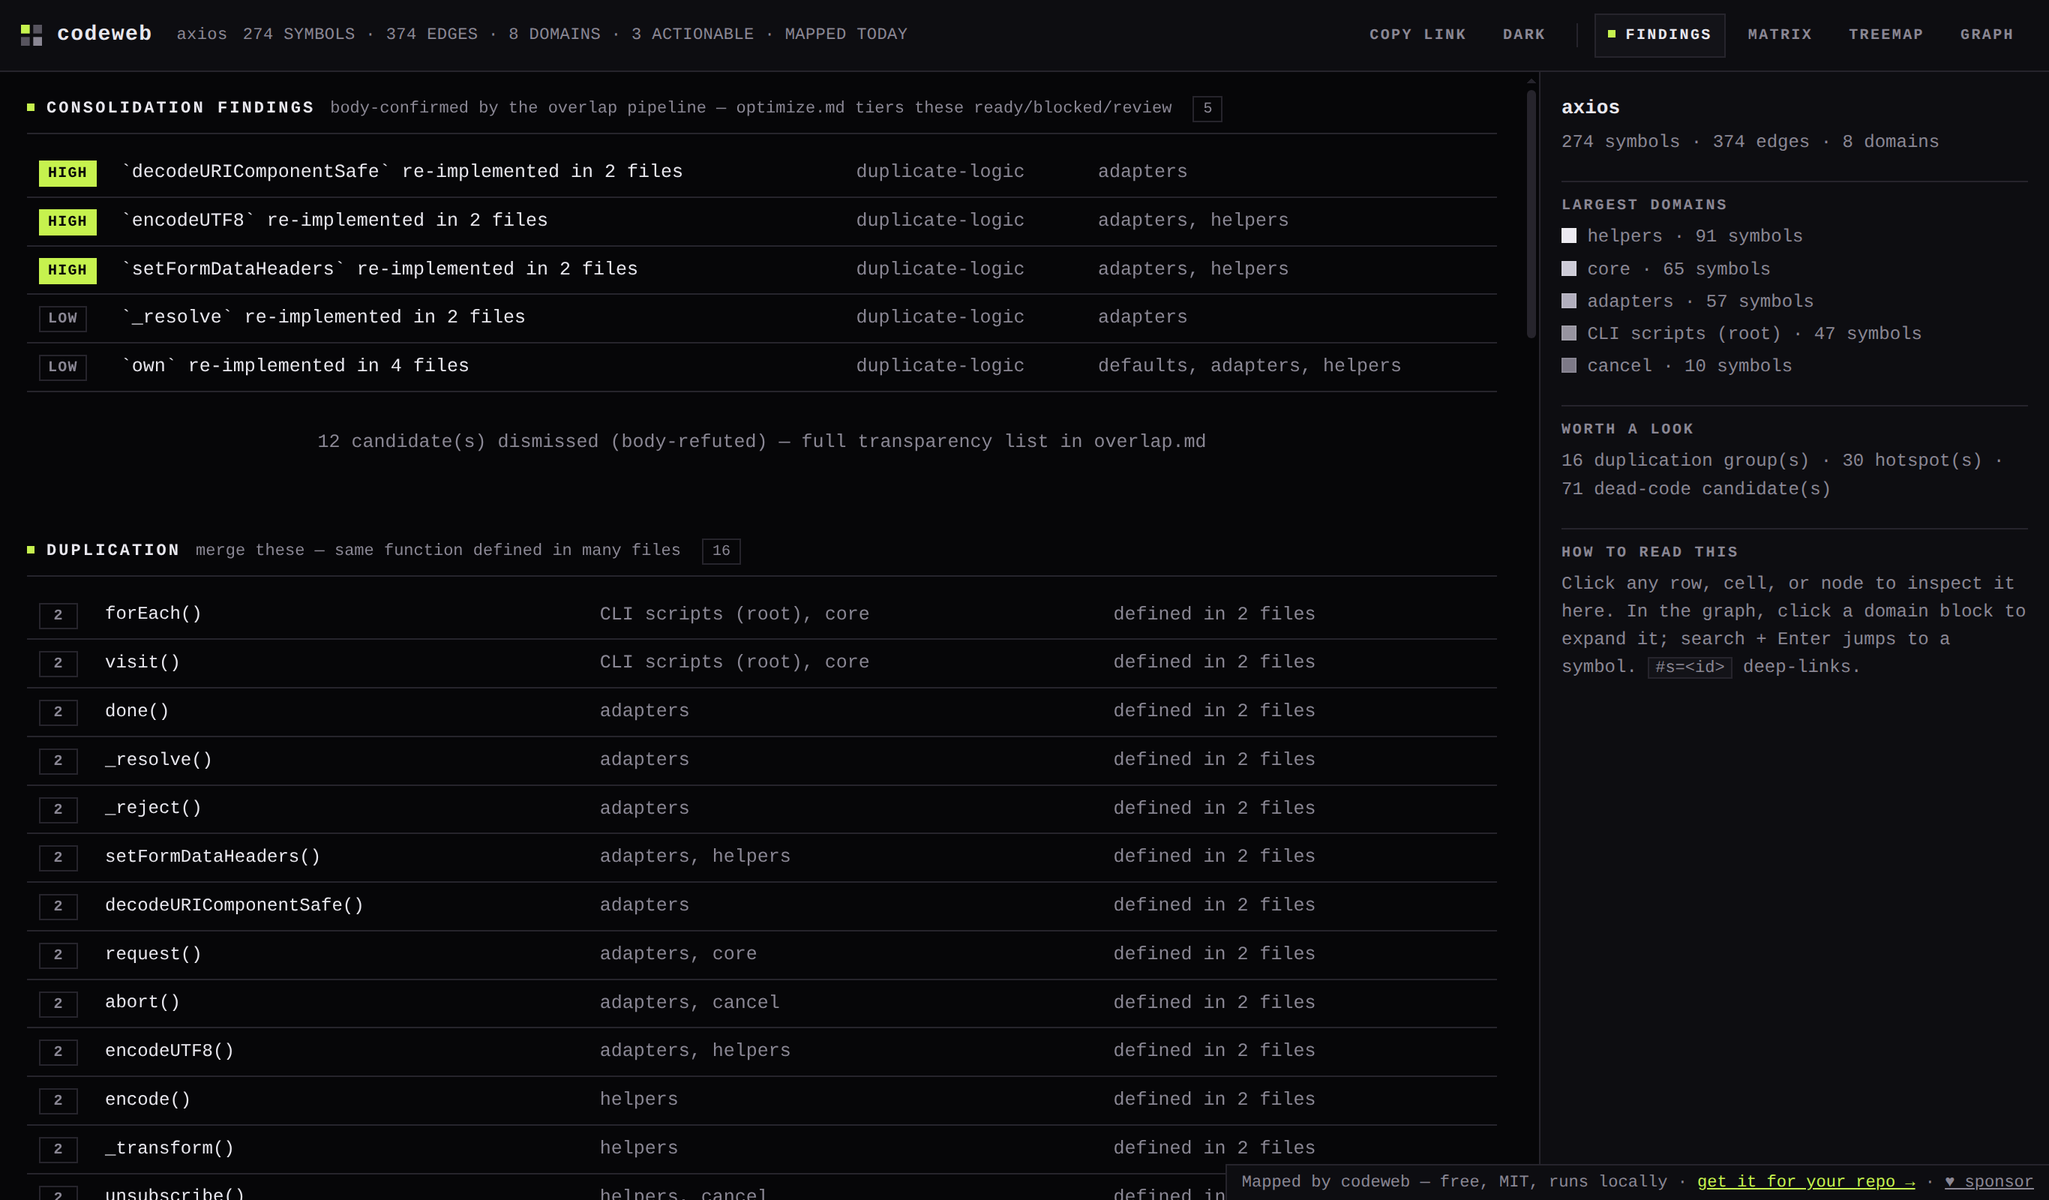
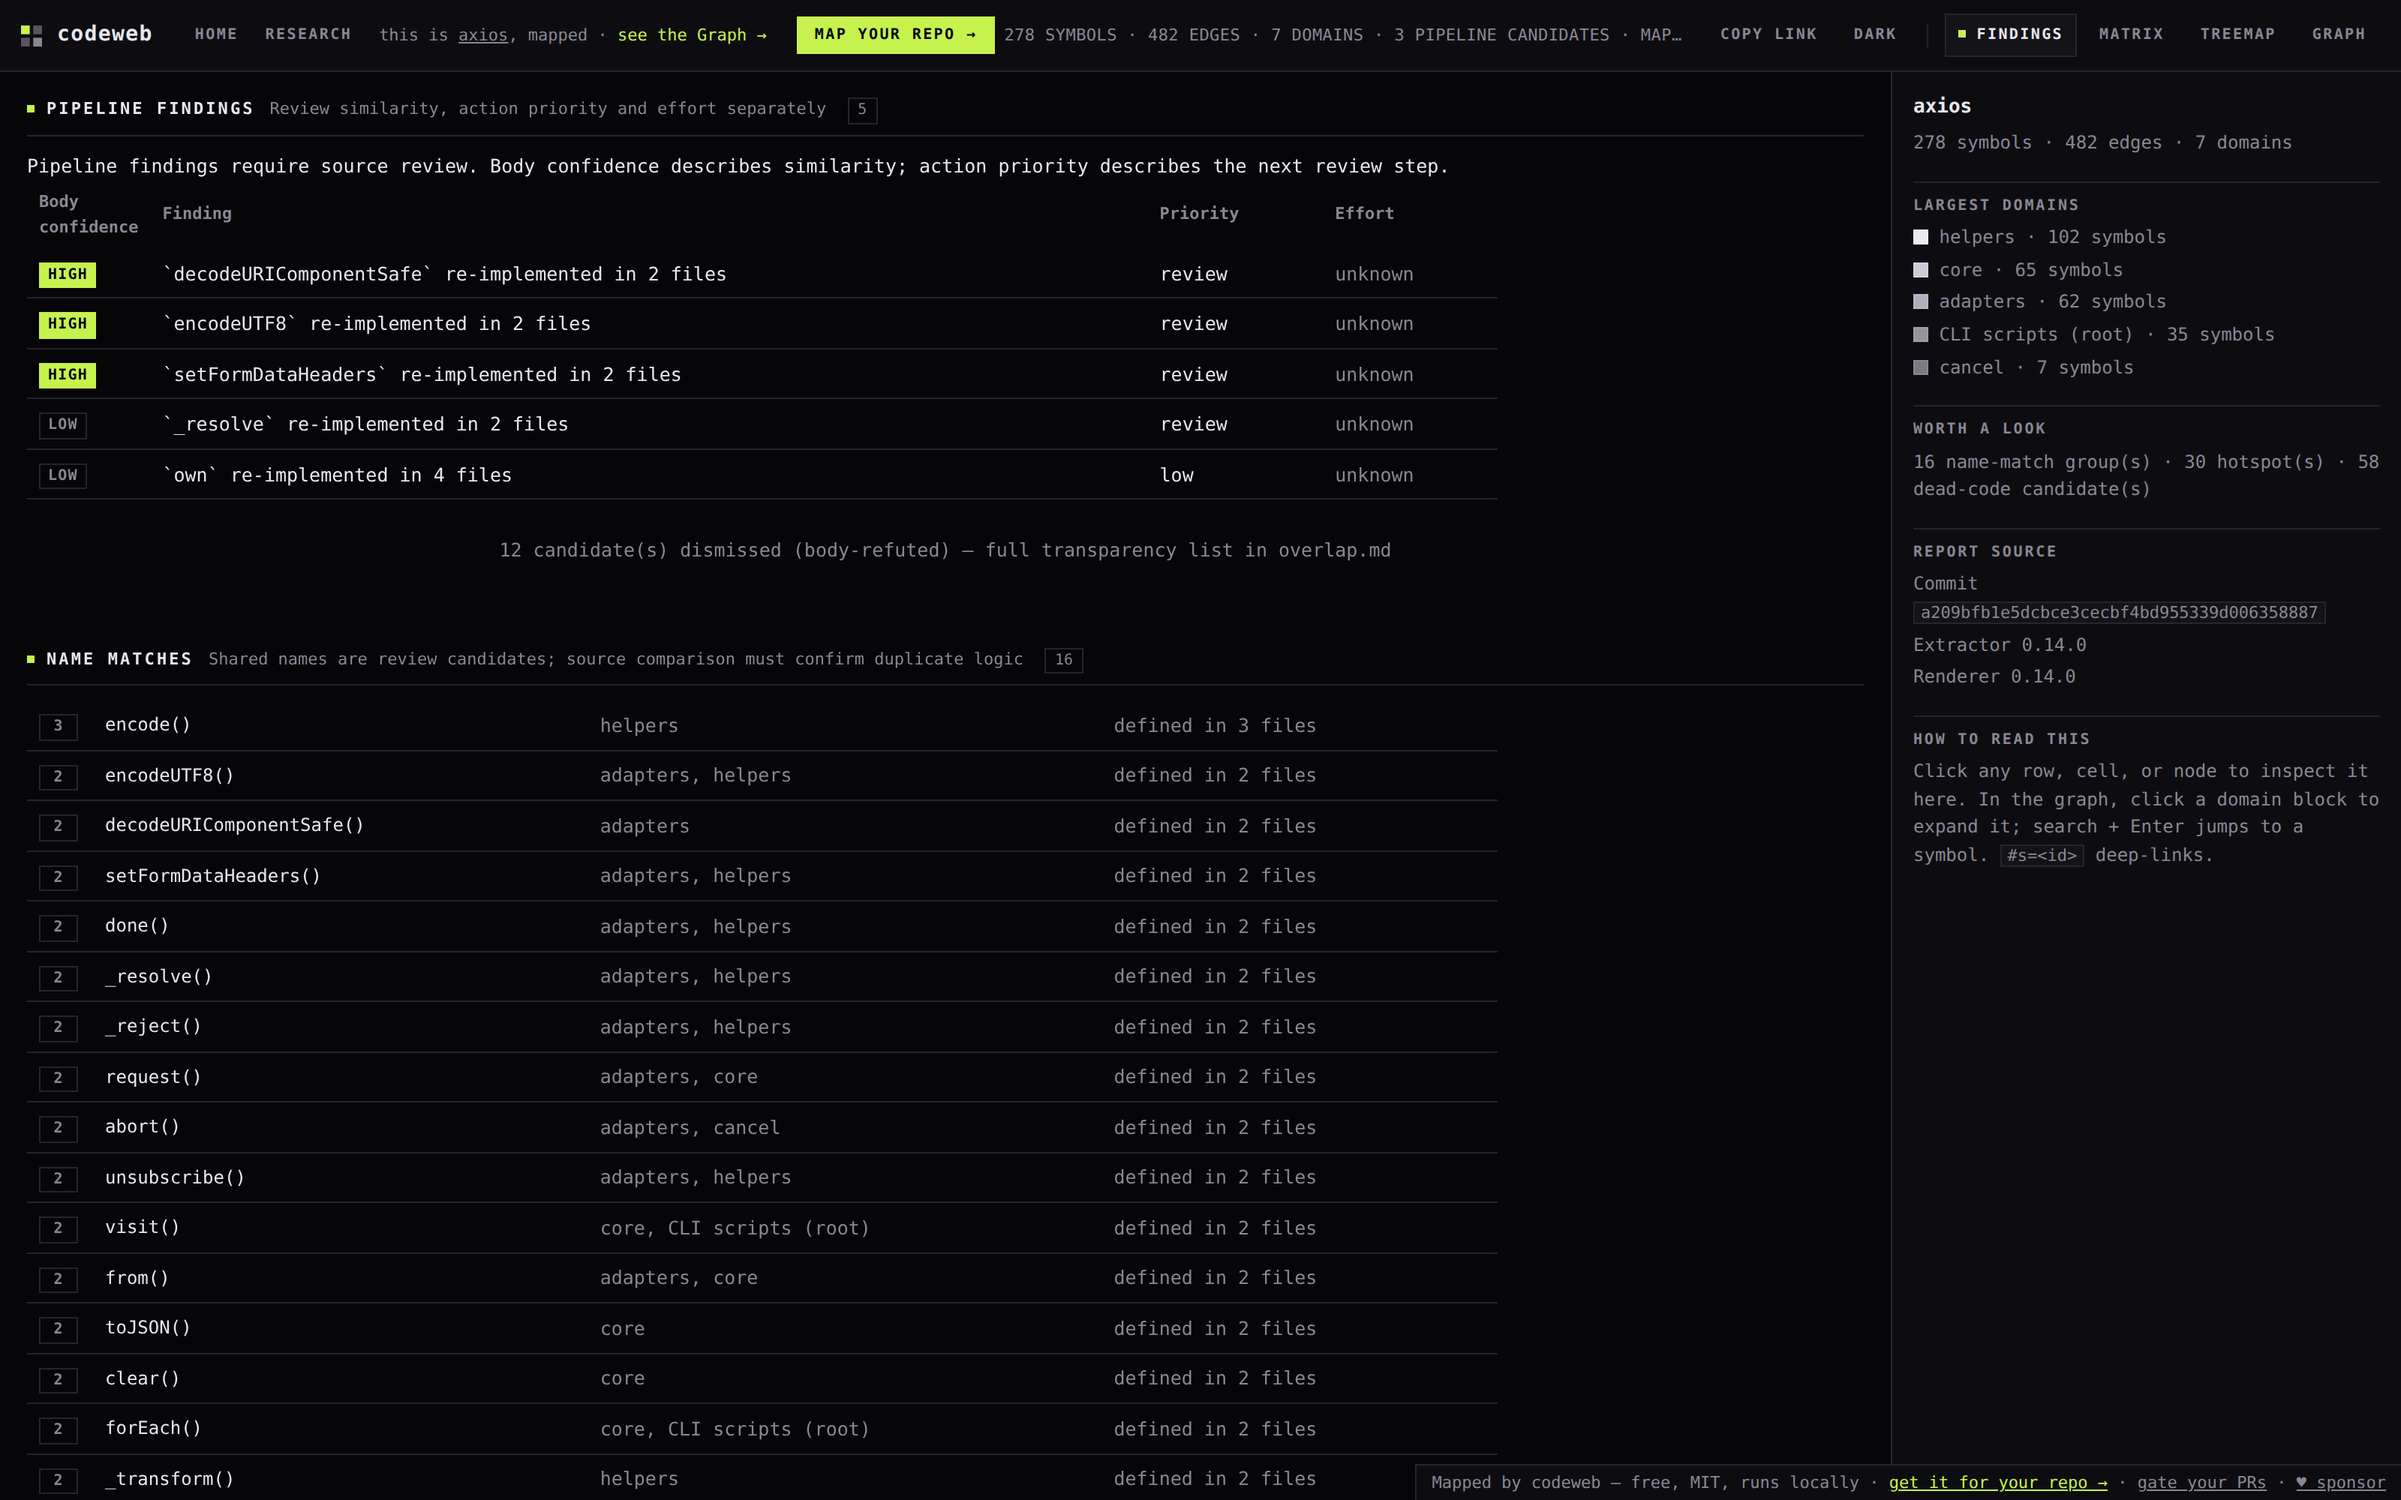
test: verify product flows and refresh inspected demo screenshots

diff --git a/docs/start.html b/docs/start.html
@@ -64,7 +64,7 @@
     <p>Select the client that your agents use. Add the displayed entry to its configuration; preserve your other server entries.</p>
     <label for="setup-client">MCP client</label>
     <select id="setup-client"><option value="claude">Claude Code</option><option value="cursor">Cursor</option><option value="windsurf">Windsurf</option><option value="gemini">Gemini CLI</option><option value="codex">Codex</option></select>
-    <div class="setup-recipe" data-setup-client="claude">
+    <div class="setup-recipe" data-setup-client="claude" data-config-path=".mcp.json">
       <h3>Claude Code</h3>
       <p>Add the json entry to <code>.mcp.json</code>. Merge it with existing settings.</p>
       <pre tabindex="0" aria-label="Claude Code recipe"><code>{
@@ -82,7 +82,7 @@
 }</code></pre>
       <button type="button" class="btn" data-copy-recipe hidden>Copy recipe</button>
       <p role="status" aria-live="polite"></p>
-    </div><div class="setup-recipe" data-setup-client="cursor">
+    </div><div class="setup-recipe" data-setup-client="cursor" data-config-path=".cursor/mcp.json">
       <h3>Cursor</h3>
       <p>Add the json entry to <code>.cursor/mcp.json</code>. Merge it with existing settings.</p>
       <pre tabindex="0" aria-label="Cursor recipe"><code>{
@@ -100,7 +100,7 @@
 }</code></pre>
       <button type="button" class="btn" data-copy-recipe hidden>Copy recipe</button>
       <p role="status" aria-live="polite"></p>
-    </div><div class="setup-recipe" data-setup-client="windsurf">
+    </div><div class="setup-recipe" data-setup-client="windsurf" data-config-path="~/.codeium/windsurf/mcp_config.json">
       <h3>Windsurf</h3>
       <p>Add the json entry to <code>~/.codeium/windsurf/mcp_config.json</code>. Merge it with existing settings.</p>
       <pre tabindex="0" aria-label="Windsurf recipe"><code>{
@@ -118,7 +118,7 @@
 }</code></pre>
       <button type="button" class="btn" data-copy-recipe hidden>Copy recipe</button>
       <p role="status" aria-live="polite"></p>
-    </div><div class="setup-recipe" data-setup-client="gemini">
+    </div><div class="setup-recipe" data-setup-client="gemini" data-config-path=".gemini/settings.json">
       <h3>Gemini CLI</h3>
       <p>Add the json entry to <code>.gemini/settings.json</code>. Merge it with existing settings.</p>
       <pre tabindex="0" aria-label="Gemini CLI recipe"><code>{
@@ -136,7 +136,7 @@
 }</code></pre>
       <button type="button" class="btn" data-copy-recipe hidden>Copy recipe</button>
       <p role="status" aria-live="polite"></p>
-    </div><div class="setup-recipe" data-setup-client="codex">
+    </div><div class="setup-recipe" data-setup-client="codex" data-config-path="~/.codex/config.toml">
       <h3>Codex</h3>
       <p>Add the toml entry to <code>~/.codex/config.toml</code>. Merge it with existing settings.</p>
       <pre tabindex="0" aria-label="Codex recipe"><code>[mcp_servers.codeweb]
@@ -146,7 +146,7 @@ args = ["-y","-p","@ghostlygawd/codeweb","codeweb-mcp"]
       <button type="button" class="btn" data-copy-recipe hidden>Copy recipe</button>
       <p role="status" aria-live="polite"></p>
     </div>
-    <p>You can print the same recipe locally with <code>npx -y @ghostlygawd/codeweb setup --client cursor</code>. The setup command does not write or replace configuration.</p>
+    <p>You can print the same recipe locally with <code id="setup-command">npx -y @ghostlygawd/codeweb setup --client claude</code>. The setup command does not write or replace configuration.</p>
     <details class="card"><summary>Claude Code plugin alternative</summary>
       <p>The plugin adds the <code>/codeweb</code> command, automatic pre-edit impact cards, and all 28 tools.</p>
 <pre><code>/plugin marketplace add GhostlyGawd/codeweb
@@ -157,7 +157,7 @@ args = ["-y","-p","@ghostlygawd/codeweb","codeweb-mcp"]
 <pre><code>npx -y @ghostlygawd/codeweb doctor</code></pre>
     <p><strong>Local success:</strong> Node is compatible, the local MCP server initializes, and the graph is present and fresh. The check does not confirm an editor connection.</p>
     <p>For an explicit configuration check, supply the selected client and file. This inspects the entry without running commands from that file.</p>
-<pre><code>npx -y @ghostlygawd/codeweb doctor --client cursor --config .cursor/mcp.json</code></pre>
+<pre><code id="doctor-command">npx -y @ghostlygawd/codeweb doctor --client claude --config .mcp.json</code></pre>
     <p>If the graph is missing or stale, repeat step 1. If a required check fails, follow the named remedy and run doctor again.</p>
     <h2>4. Ask your agents one caller question</h2>
     <p>Restart your client or reload its MCP servers. In that client, ask:</p>

diff --git a/site/content/start.html b/site/content/start.html
@@ -13,7 +13,7 @@
     <h2 id="other-clients">2. Choose your client</h2>
     <p>Select the client that your agents use. Add the displayed entry to its configuration; preserve your other server entries.</p>
     {{setup_recipes}}
-    <p>You can print the same recipe locally with <code>npx -y @ghostlygawd/codeweb setup --client cursor</code>. The setup command does not write or replace configuration.</p>
+    <p>You can print the same recipe locally with <code id="setup-command">{{setup_command}}</code>. The setup command does not write or replace configuration.</p>
     <details class="card"><summary>Claude Code plugin alternative</summary>
       <p>The plugin adds the <code>/codeweb</code> command, automatic pre-edit impact cards, and all {{toolCount}} tools.</p>
 <pre><code>/plugin marketplace add GhostlyGawd/codeweb
@@ -24,7 +24,7 @@
 <pre><code>npx -y @ghostlygawd/codeweb doctor</code></pre>
     <p><strong>Local success:</strong> Node is compatible, the local MCP server initializes, and the graph is present and fresh. The check does not confirm an editor connection.</p>
     <p>For an explicit configuration check, supply the selected client and file. This inspects the entry without running commands from that file.</p>
-<pre><code>npx -y @ghostlygawd/codeweb doctor --client cursor --config .cursor/mcp.json</code></pre>
+<pre><code id="doctor-command">{{doctor_command}}</code></pre>
     <p>If the graph is missing or stale, repeat step 1. If a required check fails, follow the named remedy and run doctor again.</p>
     <h2>4. Ask your agents one caller question</h2>
     <p>Restart your client or reload its MCP servers. In that client, ask:</p>

diff --git a/docs/assets/setup.js b/docs/assets/setup.js
@@ -5,6 +5,11 @@
   const panels = [...document.querySelectorAll('[data-setup-client]')];
   const select = () => {
     for (const panel of panels) panel.hidden = panel.dataset.setupClient !== selector.value;
+    const selected = panels.find(panel => !panel.hidden);
+    if (selected) {
+      document.getElementById('setup-command').textContent = `npx -y @ghostlygawd/codeweb setup --client ${selected.dataset.setupClient}`;
+      document.getElementById('doctor-command').textContent = `npx -y @ghostlygawd/codeweb doctor --client ${selected.dataset.setupClient} --config ${selected.dataset.configPath}`;
+    }
   };
   selector.addEventListener('change', select);
   select();

diff --git a/site/assets/setup.js b/site/assets/setup.js
@@ -5,6 +5,11 @@
   const panels = [...document.querySelectorAll('[data-setup-client]')];
   const select = () => {
     for (const panel of panels) panel.hidden = panel.dataset.setupClient !== selector.value;
+    const selected = panels.find(panel => !panel.hidden);
+    if (selected) {
+      document.getElementById('setup-command').textContent = `npx -y @ghostlygawd/codeweb setup --client ${selected.dataset.setupClient}`;
+      document.getElementById('doctor-command').textContent = `npx -y @ghostlygawd/codeweb doctor --client ${selected.dataset.setupClient} --config ${selected.dataset.configPath}`;
+    }
   };
   selector.addEventListener('change', select);
   select();

diff --git a/docs/specs/product-clarity-tasks.md b/docs/specs/product-clarity-tasks.md
@@ -14,11 +14,11 @@ The controlling acceptance criteria are AC-13 through AC-20 in `SPEC.md`.
 | T4 | Add package setup, local diagnostics, and gate entry; add explicit report-only policy | 15, 19 | T2 | Setup and gate agent | Implemented; focused tests pass |
 | T5 | Expose change review through the package and add supporting HTML and analysis-state evidence | 16 | T2 | Change review agent | Implemented; focused tests pass |
 | T6 | Improve finding decisions, source/task actions, and exception guidance in the existing report | 17 | T2 | Report agent | Implemented; focused tests pass |
-| T7 | Refresh pinned demo, inspect screenshots, and regenerate site assets | 18 | T3, T5, T6 | Orchestrator | Pending |
+| T7 | Refresh pinned demo, inspect screenshots, and regenerate site assets | 18 | T3, T5, T6 | Orchestrator | Complete; five real frames inspected and stamped |
 | T8 | Add dated comparison, reproducible demo, recording script, and honest pilot/case-study protocols | 20 | T2 | Evidence agent or orchestrator | Implemented; focused tests pass |
-| T9 | Run focused checks, all acceptance commands, full harness, and browser checks; fix findings | All | T3–T8 | Orchestrator and reviewers | Pending |
-| T10 | Independently review final diff and acceptance coverage; resolve all blocking findings | All | T9 | Independent reviewers | Pending |
-| T11 | Create PR, verify required checks on its final commit, merge, and verify merge result | All | T10 | Orchestrator | Pending |
+| T9 | Run focused checks, all acceptance commands, full harness, and browser checks; fix findings | All | T3–T8 | Orchestrator and reviewers | Focused and browser checks pass; final CI pending |
+| T10 | Independently review final diff and acceptance coverage; resolve all blocking findings | All | T9 | Independent reviewers | Code approved; all reported blockers resolved |
+| T11 | Create PR, verify required checks on its final commit, merge, and verify merge result | All | T10 | Orchestrator | In progress; final CI and merge pending |
 
 ## Validation rules
 
@@ -60,4 +60,14 @@ The existing scheduled comparison remains unchanged. No new accounts, telemetry,
 
 ## Final review and merge
 
-Pending.
+Independent architecture review approved all code after the source-pin edge case was fixed. Protected harness paths have no changes.
+Draft PR: https://github.com/GhostlyGawd/codeweb/pull/91. Final head checks and merge are recorded in the PR, so this document does not claim a merge before GitHub confirms it.
+
+## Browser and demo evidence
+
+- Browser run https://github.com/GhostlyGawd/codeweb/actions/runs/33937357302 passed the existing report-scale checks and all 19 UI checks. It tested five client clipboard round trips, copy-failure selection, keyboard navigation, home/setup/review at 1440 and 375 pixels, finding task copying, and five real report captures.
+- The orchestrator inspected the five report captures and the desktop/narrow review and finding views. `assets/screens/capture-receipt.json` records the template, source, CI run, and image hashes. The screenshot stamp was written only after inspection.
+- Image review found a selected-client command mismatch on setup. Both setup and doctor examples now follow all five client choices; regression tests cover the exact commands and paths. A final browser run checks that correction.
+- Two pinned-source extractions produced byte-identical graph and standalone HTML, including with conflicting local experiment settings. The helper explicitly disables ctags, clears experiment overrides, validates all untracked source files, and publishes only graph and HTML.
+- Rebuild the demo with `node scripts/refresh-demo.mjs --source <checkout-at-the-manifest-Axios-commit>`, then `node site/build.mjs`. Re-capture and inspect report screenshots before stamping any future template change.
+- Current brand raster art was inspected after the old headline, tool count, and numerical performance claims were removed.

diff --git a/SPEC.md b/SPEC.md
@@ -70,7 +70,7 @@ controlling product specification.
 - **AC-15** — package setup and diagnostics provide a reversible client recipe, verify the local server and graph state, and distinguish configuration evidence from an editor connection | check: `node --test tests/product-clarity-setup.test.mjs` | status: built
 - **AC-16** — a package change-review command combines changed symbols, affected callers, structural findings, recorded coverage, and analysis limits in JSON and a supporting HTML report | check: `node --test tests/product-clarity-review.test.mjs` | status: built
 - **AC-17** — report findings distinguish confidence from action priority, caution on trivial duplicates, expose source and an agent task, and reuse existing exception records | check: `node --test tests/product-clarity-findings.test.mjs` | status: built
-- **AC-18** — the public demo records a pinned source commit and current engine, generated report and screenshots match the template, and visual identity remains consistent | check: `node --test tests/product-clarity-demo.test.mjs tests/brand-sync.test.mjs` | status: next
+- **AC-18** — the public demo records a pinned source commit and current engine, generated report and screenshots match the template, and visual identity remains consistent | check: `node --test tests/product-clarity-demo.test.mjs tests/brand-sync.test.mjs` | status: built
 - **AC-19** — the package PR gate and Action support explicit report-only use that retains a failing finding verdict while still failing setup or analysis errors | check: `node --test tests/product-clarity-gate.test.mjs` | status: built
 - **AC-20** — a dated qualitative Graphify comparison and reproducible demonstration and pilot protocols distinguish existing evidence from unmeasured outcomes | check: `node --test tests/product-clarity-evidence.test.mjs` | status: built
 
